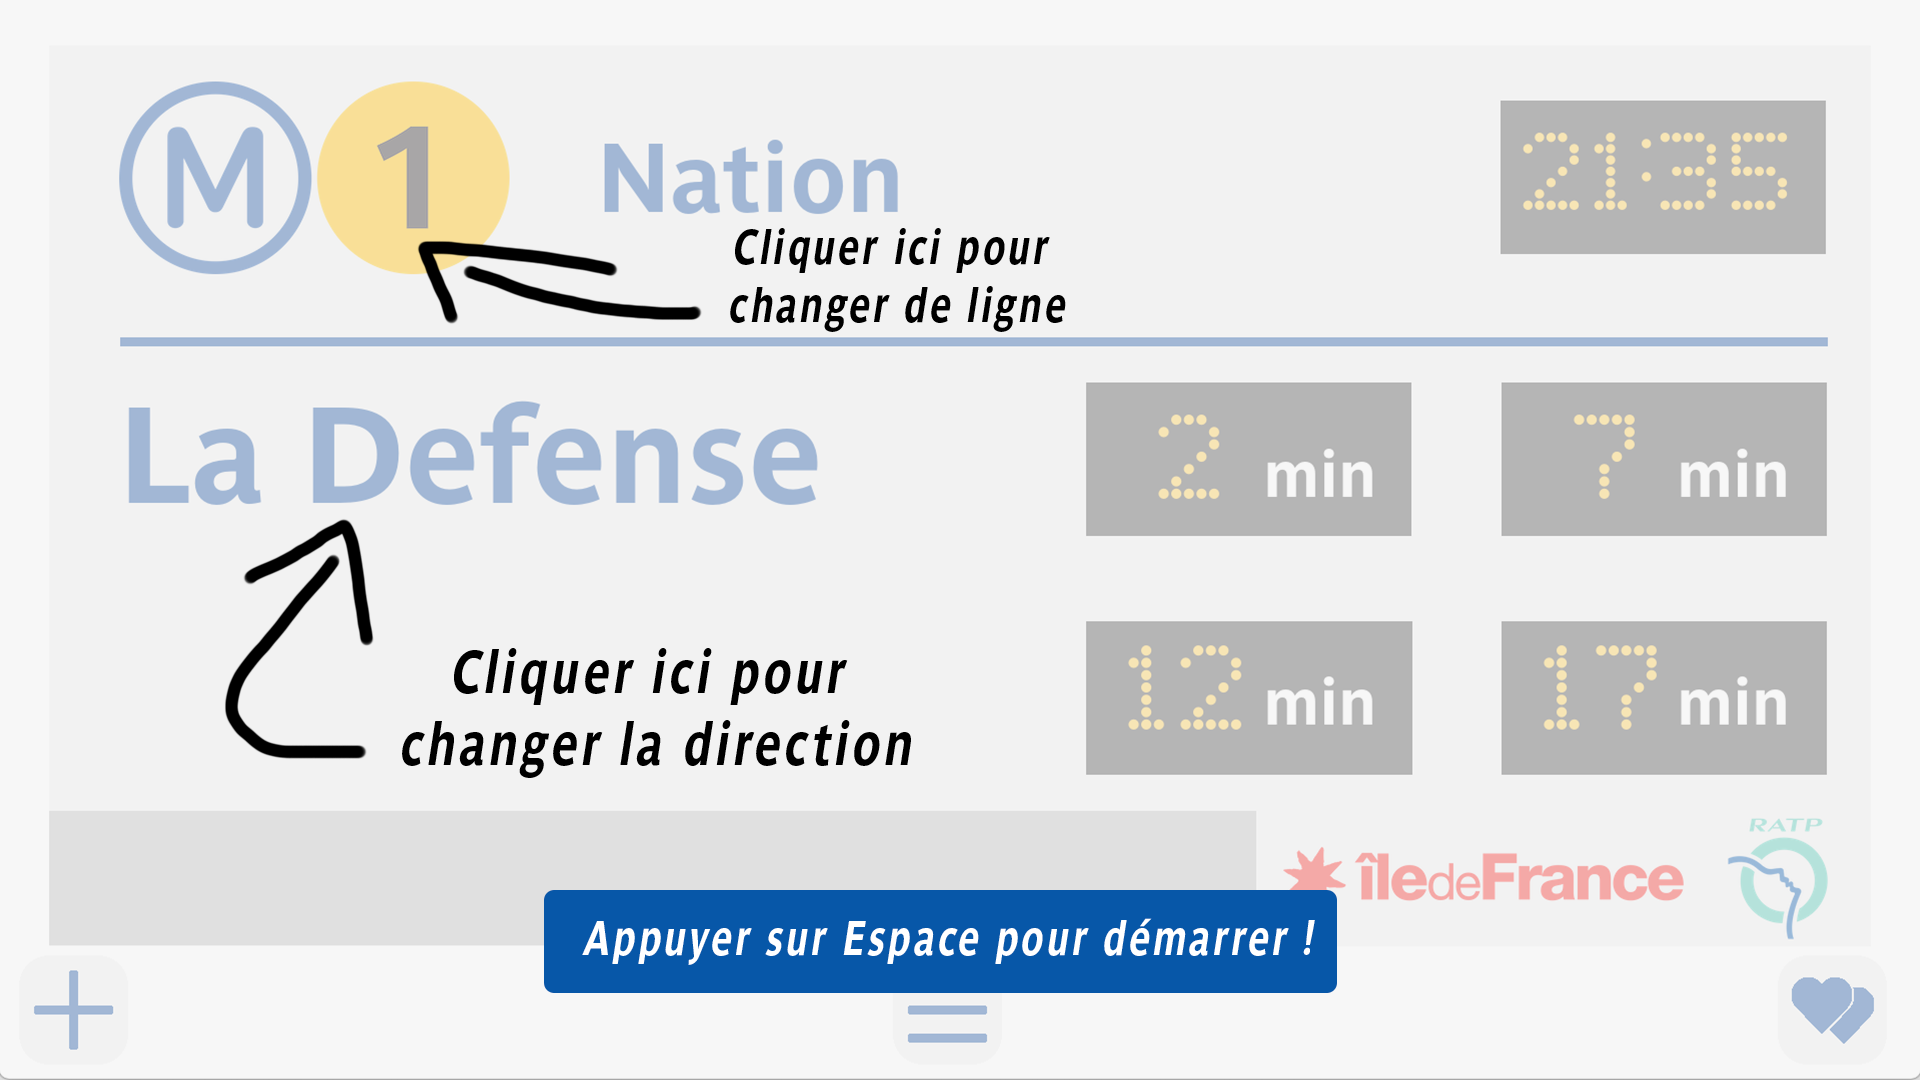
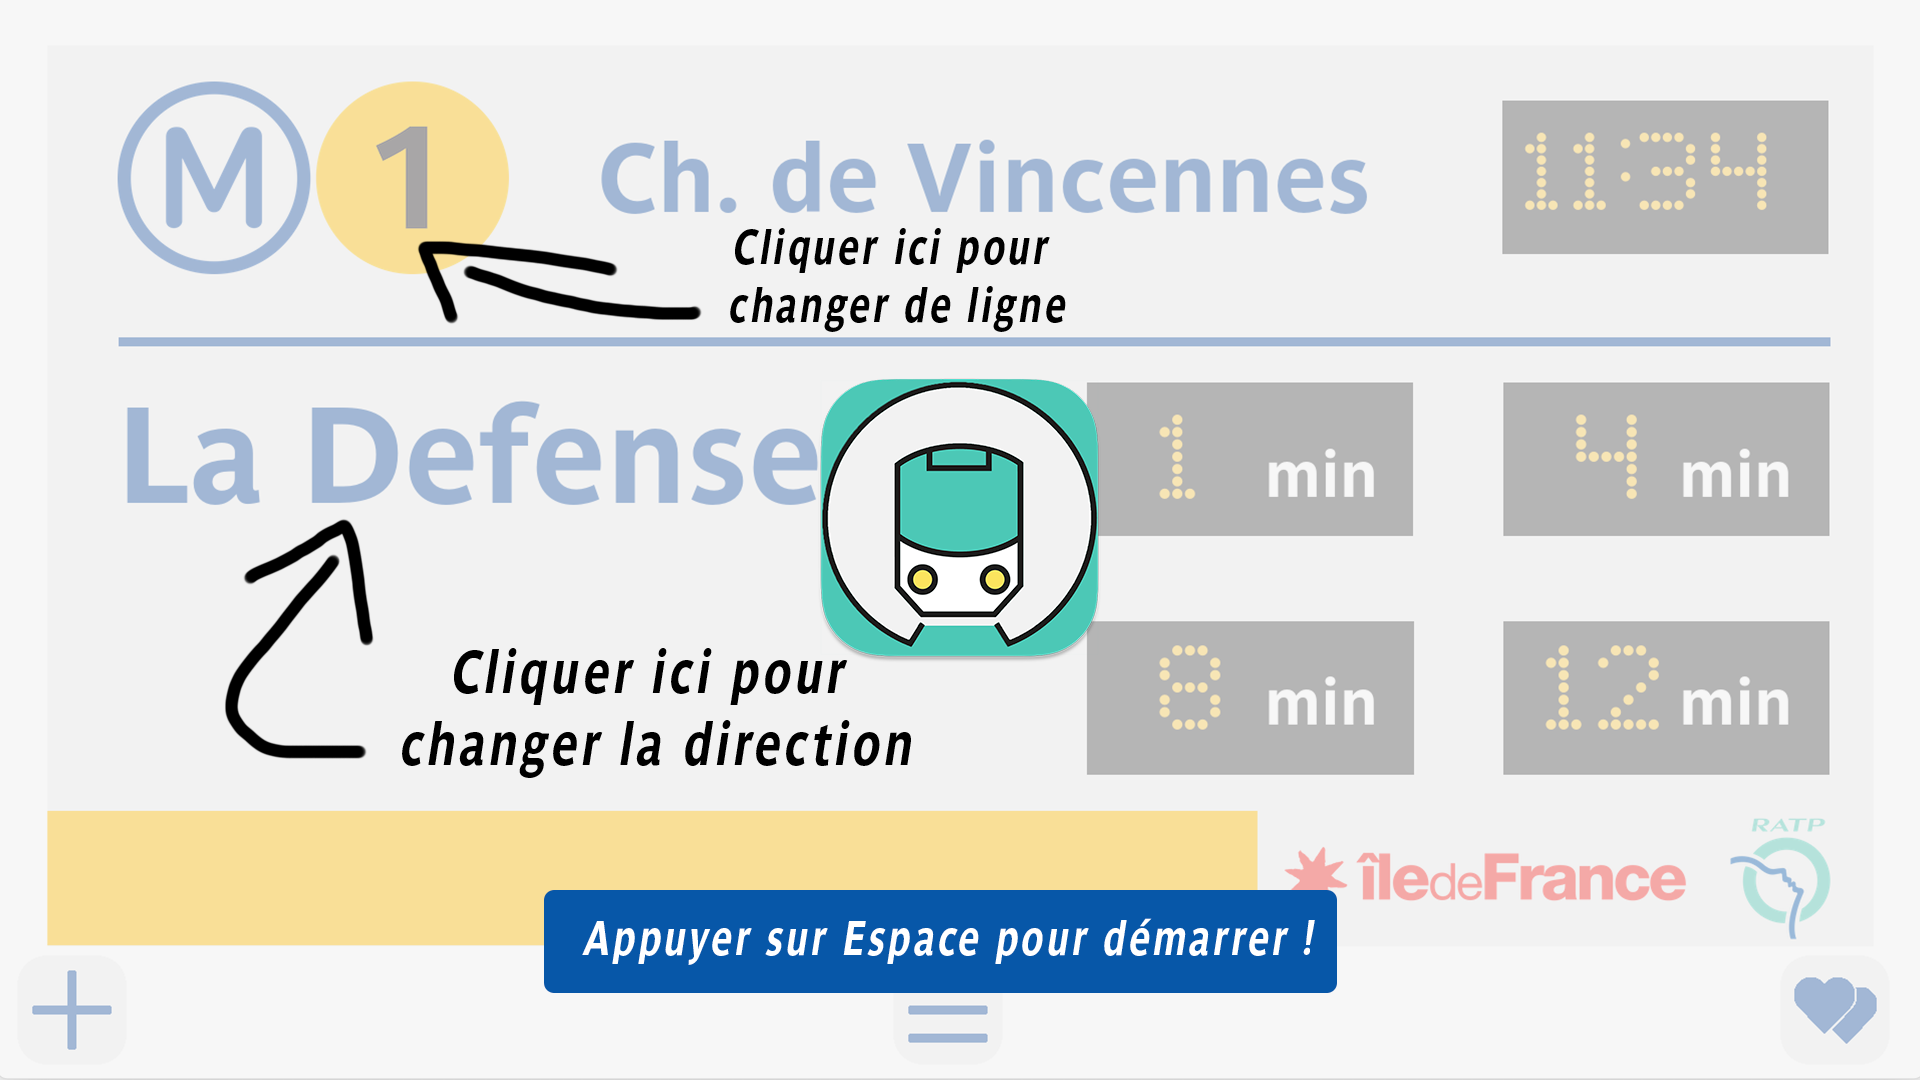
hot fix gallieni re activate refresh new first start overlay.png

diff --git a/main.c b/main.c
@@ -492,9 +492,9 @@ int main(int argc, char *argv[])
 
         if(sec >= tmp2+5){
             printf("plus de 5 second sont passé");
-          /*  al_flip_display();
+            al_flip_display();
             drawscheldures();
-            al_flip_display(); */
+            al_flip_display();
             tmp = tm_struct->tm_min;
             tmp2 = tm_struct->tm_sec;
         }

diff --git a/struct.h b/struct.h
@@ -204,6 +204,9 @@ const char * getDestination(FILE* fp){
     if(strcmp(destinationTrain, "Asnieres-Gennevilliers Les Courtilles") == 0){
         destinationTrain = "Gennevilliers";
     }
+    if(strcmp(destinationTrain, "Gallieni (Parc de Bagnolet)") == 0){
+        destinationTrain = "Gallieni (Parc)";
+    }
 
 
     return destinationTrain;
